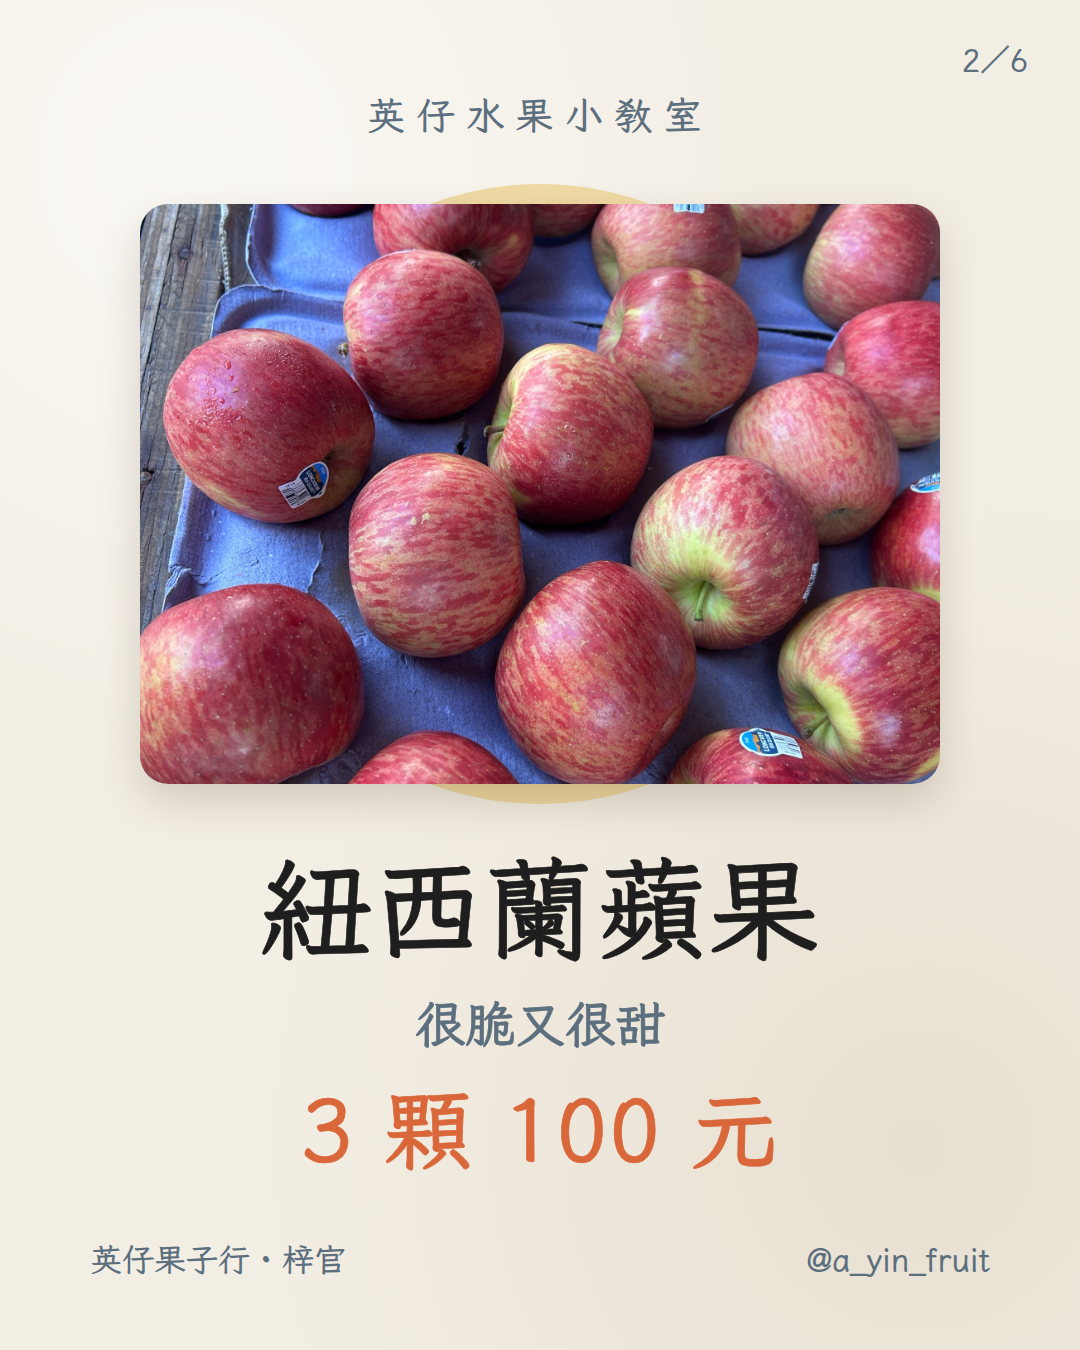
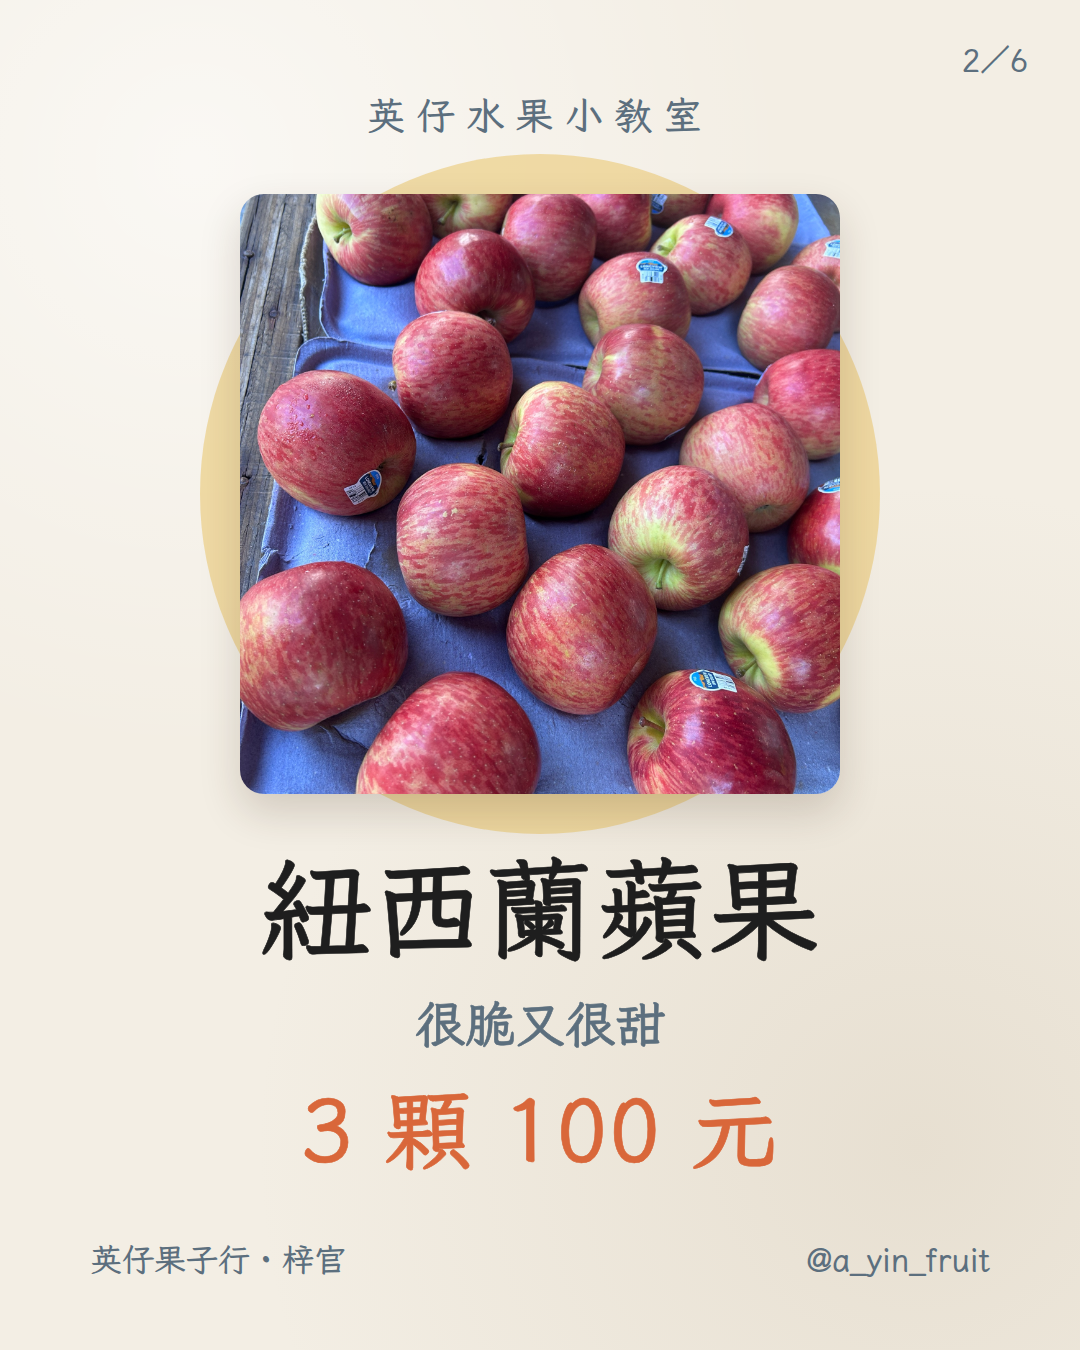
Product photos must be square (1:1): carousel template + playbook rule
Claude-Session: https://claude.ai/code/session_01PL7HGywDrPUdsLBcZeJFu6

diff --git a/ig/carousel.html b/ig/carousel.html
@@ -14,8 +14,9 @@ body{background:#888;display:flex;flex-wrap:wrap;gap:24px;padding:24px}
 .big{font-size:128px;line-height:1.25;margin-top:auto}
 .big em{font-style:normal;color:var(--accent)}
 .sunwrap{position:relative;width:860px;height:640px;margin:34px 0 26px;display:flex;align-items:center;justify-content:center}
-.sun{position:absolute;width:620px;height:620px;border-radius:50%;background:var(--sun);opacity:.55}
-.photo{position:relative;width:800px;height:580px;border-radius:28px;background-size:cover;background-position:center;box-shadow:0 18px 40px rgba(60,40,20,.18)}
+.sun{position:absolute;width:680px;height:680px;border-radius:50%;background:var(--sun);opacity:.55}
+/* 商品照片一律正方形 1:1 */
+.photo{position:relative;width:600px;height:600px;aspect-ratio:1/1;border-radius:24px;background-size:cover;background-position:center;box-shadow:0 18px 40px rgba(60,40,20,.18)}
 h2{font-size:112px;line-height:1.2}
 .say{font-size:50px;color:var(--slate);margin-top:16px}
 .price{font-size:88px;color:var(--accent);margin-top:14px}
